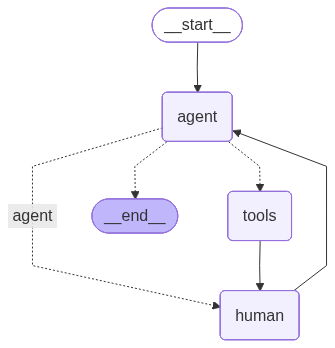
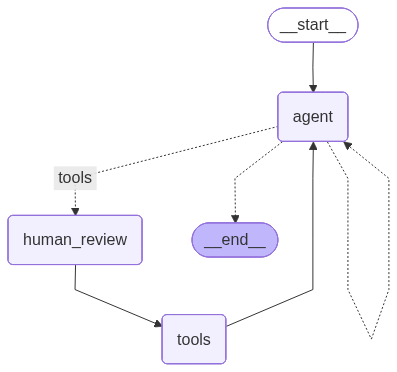
added human tool review for execution

diff --git a/src/tester/agent.py b/src/tester/agent.py
@@ -1,4 +1,4 @@
-from typing import TypedDict, Annotated, List, Sequence
+from typing import TypedDict, Annotated, Sequence
 from langgraph.graph import StateGraph, END
 from langgraph.checkpoint.memory import MemorySaver
 from langgraph.prebuilt import ToolNode, tools_condition
@@ -8,7 +8,6 @@ from langchain_google_genai import ChatGoogleGenerativeAI
 from langchain_openai import ChatOpenAI
 from langchain_community.llms import LlamaCpp
 from dotenv import load_dotenv
-import os
 
 from tester.runtime.runtime import Runtime
 import tester.tools.basic_tools.basic_tools as basic_tools
@@ -37,67 +36,56 @@ class Agent:
         
         llm = self.llm.bind_tools(tools)
 
-        workflow = StateGraph(AgentState)
-
         def call_model(state: AgentState) -> AgentState:
             logger.info(f"Calling LLM with messages: {state['messages']}")
             response = llm.invoke(state["messages"])
             return {"messages": [response]}
 
-        def human_interaction(state: AgentState) -> AgentState:
-            last_message = state.get('messages', [])[-1] if state.get('messages') else None
-            print("\n--- Human-in-the-Loop ---")
-            if last_message is not None:
-                try:
-                    content_preview = last_message.content
-                except Exception:
-                    content_preview = str(last_message)
-                print(f"Last message:\n{content_preview}\n")
+        def human_tool_review(state: AgentState) -> AgentState:
+            tool_calls = [m for m in state["messages"] if m.type == "ai"][-1].tool_calls
+            if not tool_calls:
+                return state
+
+            tool_call = tool_calls[0]
+            print(f"\nProposed tool call: {tool_call}\n")
+
+            action = input("Approve this call? [y/n/edit]: ").strip().lower()
+
+            if action == "y":
+                print("Approved")
+                return state
+
+            elif action == "edit":
+                print("Current args:", tool_call["args"])
+                for k, v in tool_call["args"].items():
+                    new_val = input(f"Enter new value for '{k}' (or press Enter to keep '{v}'): ")
+                    if new_val:
+                        tool_call["args"][k] = new_val
+                state["messages"][-1].tool_calls[0] = tool_call
+                print("Edited and approved")
+                return state
+
             else:
-                print("No last message to review.\n")
+                print("Rejected - skipping tool execution")
+                state["messages"][-1].tool_calls = []
+                return state
 
-            while True:
-                print("Type one of the following:")
-                print("  - approve              (type exactly 'approve' to allow the agent to continue)")
-                print("  - modify: <your text>  (provide new human guidance to send to the agent)")
-                print("  - abort                (stop the whole run)\n")
-                response = input("Your action: ").strip()
 
-                if not response:
-                    print("Please type a command (approve / modify: ... / abort).")
-                    continue
-
-                low = response.lower()
-                if low == "approve":
-                    return {"messages": [HumanMessage(content="The previous action is approved. Please continue with the security assessment.")]}
-
-                if low.startswith("modify:"):
-                    _, _, guidance = response.partition(":")
-                    guidance = guidance.strip()
-                    if not guidance:
-                        print("You typed 'modify:' but did not provide text. Try again.")
-                        continue
-                    return {"messages": [HumanMessage(content=guidance)]}
-
-                if low == "abort":
-                    raise RuntimeError("Human aborted the run via 'abort' command.")
-
-                print("Unrecognized command. Use exactly 'approve', 'modify: <text>' or 'abort'.")
-                
-
+        workflow = StateGraph(AgentState)
+        
         workflow.add_node("agent", call_model)
+        workflow.add_node("human_tool_review", human_tool_review)
         workflow.add_node("tools", ToolNode(tools))
-        workflow.add_node("human", human_interaction)
-
+        
         workflow.set_entry_point("agent")
+
         workflow.add_conditional_edges(
             "agent",
             tools_condition,
-            {"tools": "tools", "agent": "human", "__end__": END},
+            {"tools": "human_tool_review", "agent": "agent", "__end__": END},
         )
-        
-        workflow.add_edge("tools", "human")
-        workflow.add_edge("human", "agent")
+        workflow.add_edge("human_tool_review", "tools")
+        workflow.add_edge("tools", "agent")
 
         memory = MemorySaver()
         compiled_graph = workflow.compile(checkpointer=memory)
@@ -131,7 +119,7 @@ You must not be destructive.
                 print(f"\n[Step {i}]")
                 print(step["messages"][-1])
 
-                if i >= 10:
+                if i >= 5:
                     print("Reached max steps.")
                     break
         except Exception as e:
